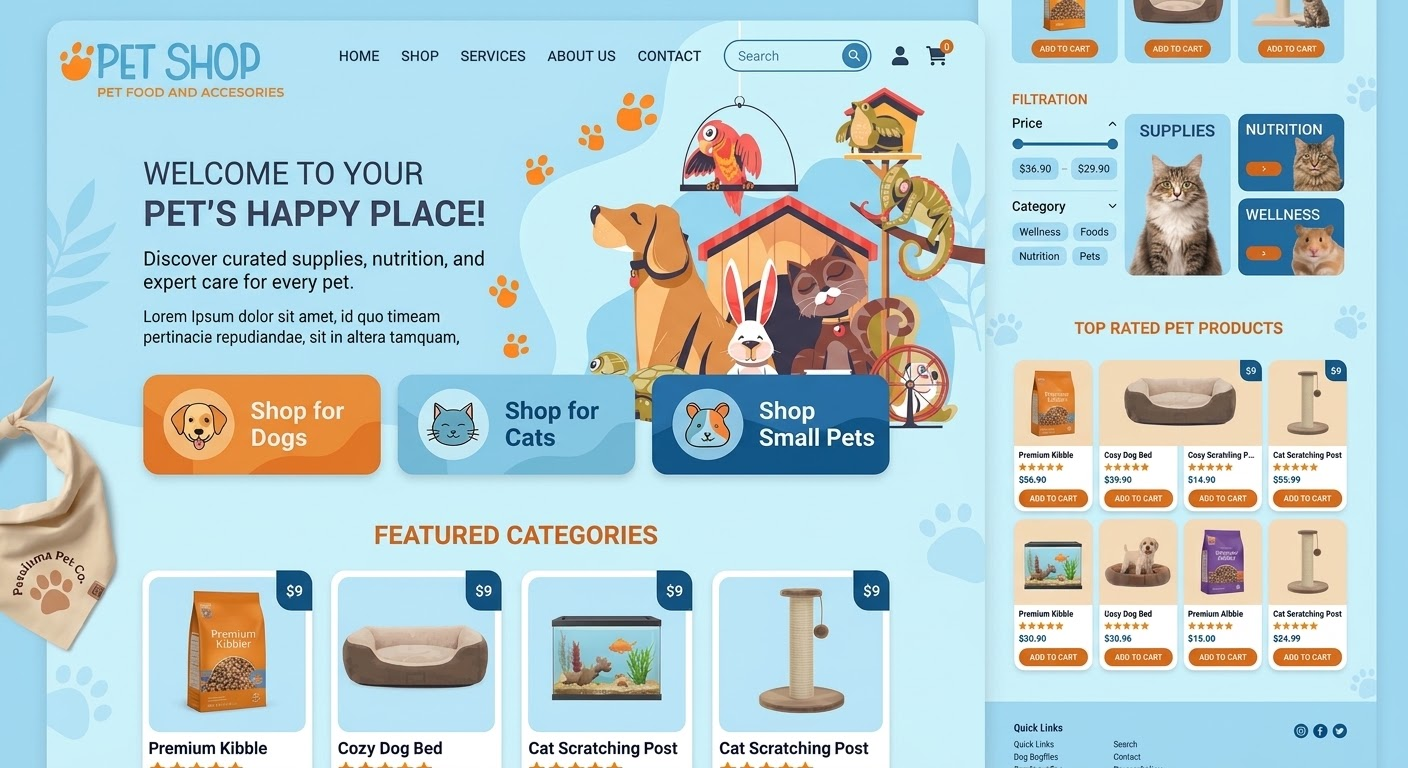
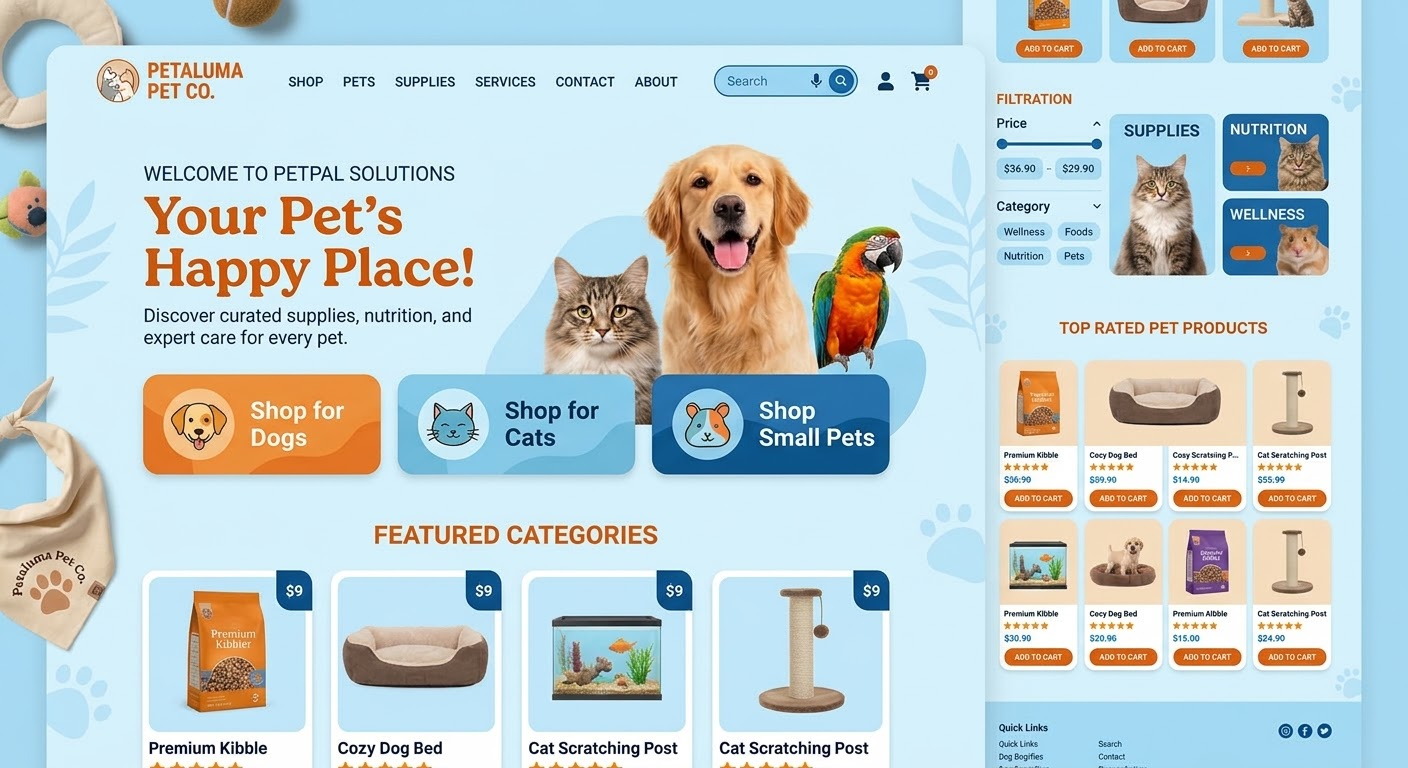
Match homepage/shop UI to design 1 mockup, fix mislabeled design files
- The two design reference files were mislabeled (design-1 and design-2
  were swapped) - fixed.
- Header: hand-built approximation of the logo badge (navy/orange ring,
  light-blue poodle, arched wordmark) plus tagline, pill-shaped search
  bar with icon button, account/cart icons with cart count badge.
- Home: two-line hero heading, three distinctly-colored pill CTAs
  (orange/blue/navy) with circular icon avatars per animal type;
  Featured Categories now shows one real representative product per
  category (image + price badge + rating) instead of plain text links.
- ProductCard: price now renders as a corner badge on the image
  (matching the mockup) instead of inline text.
- Fixed AMD price formatting - the dram sign glyph has poor font
  coverage and was rendering as a tofu box; now a plain numeric string
  with an AMD suffix.
- Verified visually via headless-Edge screenshots of both pages (no
  browser automation tool available, so used msedge --headless as a
  substitute) rather than trusting the code alone.

diff --git a/src/app/page.tsx b/src/app/page.tsx
@@ -3,60 +3,85 @@ import ProductCard from "@/components/product-card";
 import { ANIMAL_TYPE_OPTIONS, CATEGORY_OPTIONS } from "@/lib/catalog";
 import { prisma } from "@/lib/prisma";
 
+const HERO_BUTTONS = [
+  { animal: ANIMAL_TYPE_OPTIONS[0], className: "bg-brand-orange hover:bg-brand-orange-dark" },
+  { animal: ANIMAL_TYPE_OPTIONS[1], className: "bg-brand-blue hover:bg-brand-navy" },
+  { animal: ANIMAL_TYPE_OPTIONS[3], className: "bg-brand-navy hover:bg-brand-blue" },
+];
+
 export default async function HomePage() {
-  const topRated = await prisma.product.findMany({
-    orderBy: [{ rating: "desc" }, { reviewCount: "desc" }],
-    take: 8,
-  });
+  const [topRated, featuredByCategory] = await Promise.all([
+    prisma.product.findMany({
+      orderBy: [{ rating: "desc" }, { reviewCount: "desc" }],
+      take: 8,
+    }),
+    Promise.all(
+      CATEGORY_OPTIONS.map((category) =>
+        prisma.product.findFirst({
+          where: { category: category.value },
+          orderBy: [{ rating: "desc" }, { reviewCount: "desc" }],
+        }),
+      ),
+    ),
+  ]);
 
   return (
     <div className="mx-auto max-w-7xl px-6 py-10">
       <section className="grid items-center gap-8 rounded-3xl bg-white p-8 shadow-sm sm:grid-cols-2 sm:p-12">
         <div>
           <p className="text-sm font-semibold uppercase tracking-wider text-brand-orange">
-            Welcome to Doggy&apos;s Shop
+            Welcome to your
           </p>
-          <h1 className="mt-2 text-4xl font-bold text-brand-navy sm:text-5xl">
-            Your Pet&apos;s Happy Place!
+          <h1 className="mt-1 text-4xl font-bold text-brand-navy sm:text-5xl">
+            Pet&apos;s Happy Place!
           </h1>
           <p className="mt-4 text-brand-navy/70">
             Discover curated supplies, nutrition, and expert care for every pet — delivered within
             Yerevan, Armenia.
           </p>
+
+          <div className="mt-6 flex flex-wrap gap-3">
+            {HERO_BUTTONS.map(({ animal, className }) => (
+              <Link
+                key={animal.value}
+                href={`/shop?animalType=${animal.value}`}
+                className={`flex items-center gap-3 rounded-full px-5 py-3 font-semibold text-white transition ${className}`}
+              >
+                <span className="flex h-9 w-9 items-center justify-center rounded-full bg-white/20 text-xl">
+                  {animal.emoji}
+                </span>
+                Shop for {animal.label}
+              </Link>
+            ))}
+          </div>
         </div>
-        <div className="flex items-center justify-center text-8xl">🐶🐱🦜🐹</div>
-      </section>
-
-      <section className="mt-10 grid gap-4 sm:grid-cols-4">
-        {ANIMAL_TYPE_OPTIONS.map((animal) => (
-          <Link
-            key={animal.value}
-            href={`/shop?animalType=${animal.value}`}
-            className="flex items-center gap-3 rounded-2xl bg-brand-blue px-5 py-6 font-semibold text-white transition hover:bg-brand-navy"
-          >
-            <span className="text-3xl">{animal.emoji}</span>
-            Shop for {animal.label}
-          </Link>
-        ))}
-      </section>
-
-      <section className="mt-16">
-        <h2 className="text-center text-2xl font-bold text-brand-orange">Featured Categories</h2>
-        <div className="mt-6 grid gap-4 sm:grid-cols-5">
-          {CATEGORY_OPTIONS.map((category) => (
-            <Link
-              key={category.value}
-              href={`/shop?category=${category.value}`}
-              className="rounded-2xl border border-brand-blue/10 bg-white p-4 text-center font-medium text-brand-navy shadow-sm hover:shadow-md"
-            >
-              {category.label}
-            </Link>
-          ))}
+        <div className="flex items-center justify-center gap-2 text-7xl">
+          <span>🐶</span>
+          <span>🐱</span>
+          <span>🐦</span>
+          <span>🐹</span>
         </div>
       </section>
 
       <section className="mt-16">
-        <h2 className="text-center text-2xl font-bold text-brand-orange">Top Rated Pet Products</h2>
+        <h2 className="text-center text-2xl font-bold text-brand-orange uppercase">
+          Featured Categories
+        </h2>
+        <div className="mt-6 grid gap-6 sm:grid-cols-2 lg:grid-cols-5">
+          {featuredByCategory.map((product, i) =>
+            product ? (
+              <Link key={product.id} href={`/shop?category=${CATEGORY_OPTIONS[i].value}`}>
+                <ProductCard product={product} />
+              </Link>
+            ) : null,
+          )}
+        </div>
+      </section>
+
+      <section className="mt-16">
+        <h2 className="text-center text-2xl font-bold text-brand-orange uppercase">
+          Top Rated Pet Products
+        </h2>
         <div className="mt-6 grid gap-6 sm:grid-cols-2 lg:grid-cols-4">
           {topRated.map((product) => (
             <ProductCard key={product.id} product={product} />

diff --git a/src/components/site-header.tsx b/src/components/site-header.tsx
@@ -1,4 +1,5 @@
 import Link from "next/link";
+import Logo from "@/components/logo";
 
 const NAV_LINKS = [
   { href: "/", label: "Home" },
@@ -10,13 +11,18 @@ const NAV_LINKS = [
 export default function SiteHeader() {
   return (
     <header className="border-b border-brand-blue/10 bg-white">
-      <div className="mx-auto flex max-w-7xl flex-wrap items-center gap-4 px-6 py-4">
+      <div className="mx-auto flex max-w-7xl flex-wrap items-center gap-6 px-6 py-4">
         <Link href="/" className="flex items-center gap-2">
-          <span className="text-2xl">🐾</span>
-          <span className="text-xl font-bold text-brand-navy">Doggy&apos;s Shop</span>
+          <Logo size={44} />
+          <span className="leading-tight">
+            <span className="block text-xl font-bold text-brand-navy">Doggy&apos;s Shop</span>
+            <span className="block text-[10px] font-semibold uppercase tracking-wider text-brand-navy/50">
+              Pet food and accessories
+            </span>
+          </span>
         </Link>
 
-        <nav className="ml-6 flex flex-1 flex-wrap gap-6 text-sm font-medium text-brand-navy">
+        <nav className="flex flex-1 flex-wrap gap-6 text-sm font-semibold text-brand-navy">
           {NAV_LINKS.map((link) => (
             <Link key={link.href} href={link.href} className="hover:text-brand-orange">
               {link.label}
@@ -24,14 +30,19 @@ export default function SiteHeader() {
           ))}
         </nav>
 
-        <div className="flex items-center gap-4">
-          <input
-            type="search"
-            placeholder="Search products…"
-            className="hidden w-56 rounded-full border border-brand-blue/20 bg-brand-sky px-4 py-2 text-sm outline-none focus:border-brand-blue sm:block"
-            disabled
-            title="Search is coming soon"
-          />
+        <div className="flex items-center gap-3">
+          <div className="hidden items-center overflow-hidden rounded-full border border-brand-blue/20 bg-brand-sky sm:flex">
+            <input
+              type="search"
+              placeholder="Search"
+              className="w-48 bg-transparent px-4 py-2 text-sm outline-none"
+              disabled
+              title="Search is coming soon"
+            />
+            <span className="flex h-9 w-9 items-center justify-center rounded-full bg-brand-blue text-white">
+              🔍
+            </span>
+          </div>
           <button
             type="button"
             className="rounded-full p-2 text-brand-navy opacity-50"
@@ -43,12 +54,15 @@ export default function SiteHeader() {
           </button>
           <button
             type="button"
-            className="rounded-full p-2 text-brand-navy opacity-50"
+            className="relative rounded-full p-2 text-brand-navy opacity-50"
             disabled
             title="Cart is coming soon"
             aria-label="Cart"
           >
             🛒
+            <span className="absolute -top-0.5 -right-0.5 flex h-4 w-4 items-center justify-center rounded-full bg-brand-orange text-[10px] text-white">
+              0
+            </span>
           </button>
         </div>
       </div>

diff --git a/src/components/logo.tsx b/src/components/logo.tsx
@@ -1,0 +1,37 @@
+/**
+ * Hand-built approximation of the supplied "Doggy's Shop" logo PDF (navy/orange ring, light-blue
+ * poodle silhouette, arched wordmark). Not an exact vector extraction — swap for the real
+ * exported PNG/SVG asset when available.
+ */
+export default function Logo({ size = 44 }: { size?: number }) {
+  return (
+    <svg width={size} height={size} viewBox="0 0 200 200" aria-label="Doggy's Shop logo">
+      <circle cx="100" cy="100" r="98" fill="#0b4f73" />
+      <circle cx="100" cy="100" r="86" fill="#f2902e" />
+      <circle cx="100" cy="100" r="83" fill="none" stroke="#0b4f73" strokeWidth="2" />
+
+      <path id="logo-arc" d="M 38 90 A 62 62 0 0 1 162 90" fill="none" />
+      <text fontSize="19" fontWeight="700" fill="#8fd3f4" stroke="#0b4f73" strokeWidth="1.5">
+        <textPath href="#logo-arc" startOffset="50%" textAnchor="middle">
+          Doggy&apos;s shop
+        </textPath>
+      </text>
+
+      <g fill="#8fd3f4" stroke="#0b4f73" strokeWidth="2.5">
+        <circle cx="100" cy="128" r="30" />
+        <circle cx="72" cy="108" r="17" />
+        <circle cx="128" cy="108" r="17" />
+        <circle cx="78" cy="150" r="14" />
+        <circle cx="122" cy="150" r="14" />
+      </g>
+      <g fill="#0b4f73">
+        <circle cx="90" cy="122" r="3" />
+        <circle cx="110" cy="122" r="3" />
+      </g>
+      <path
+        d="M 100 128 L 93 136 Q 100 142 107 136 Z"
+        fill="#0b4f73"
+      />
+    </svg>
+  );
+}

diff --git a/src/components/product-card.tsx b/src/components/product-card.tsx
@@ -32,18 +32,20 @@ export default function ProductCard({ product }: { product: ProductCardData }) {
           sizes="(max-width: 768px) 50vw, 25vw"
           className="object-cover"
         />
+        <span className="absolute top-2 right-2 rounded-md bg-brand-navy px-2 py-1 text-xs font-bold text-white">
+          {formatPrice(product.priceAmd)}
+        </span>
       </div>
       <div className="flex flex-1 flex-col gap-1 p-4">
         <p className="text-sm font-semibold text-brand-navy">{product.name}</p>
         <p className="text-xs text-brand-navy/60">
           <Stars rating={product.rating} /> ({product.reviewCount})
         </p>
-        <p className="mt-1 font-bold text-brand-navy">{formatPrice(product.priceAmd)}</p>
         <button
           type="button"
           disabled
           title="Cart is coming soon"
-          className="mt-auto rounded-full bg-brand-orange px-4 py-2 text-sm font-medium text-white opacity-60"
+          className="mt-2 rounded-full bg-brand-orange px-4 py-2 text-xs font-bold tracking-wide text-white uppercase opacity-70"
         >
           Add to cart
         </button>

diff --git a/src/lib/catalog.ts b/src/lib/catalog.ts
@@ -3,7 +3,7 @@ import type { AnimalType, ProductCategory } from "@prisma/client";
 export const ANIMAL_TYPE_OPTIONS: { value: AnimalType; label: string; emoji: string }[] = [
   { value: "DOG", label: "Dogs", emoji: "🐶" },
   { value: "CAT", label: "Cats", emoji: "🐱" },
-  { value: "BIRD", label: "Birds", emoji: "🦜" },
+  { value: "BIRD", label: "Birds", emoji: "🐦" },
   { value: "HAMSTER", label: "Hamsters", emoji: "🐹" },
 ];
 
@@ -24,5 +24,7 @@ export function categoryLabel(value: ProductCategory | null | undefined): string
 }
 
 export function formatPrice(amd: number): string {
-  return amd.toLocaleString("hy-AM", { style: "currency", currency: "AMD", maximumFractionDigits: 0 });
+  // Plain "AMD" suffix rather than the ֏ glyph — the dram sign has poor font coverage
+  // and renders as a tofu box in a lot of common UI fonts.
+  return `${amd.toLocaleString("en-US")} AMD`;
 }
